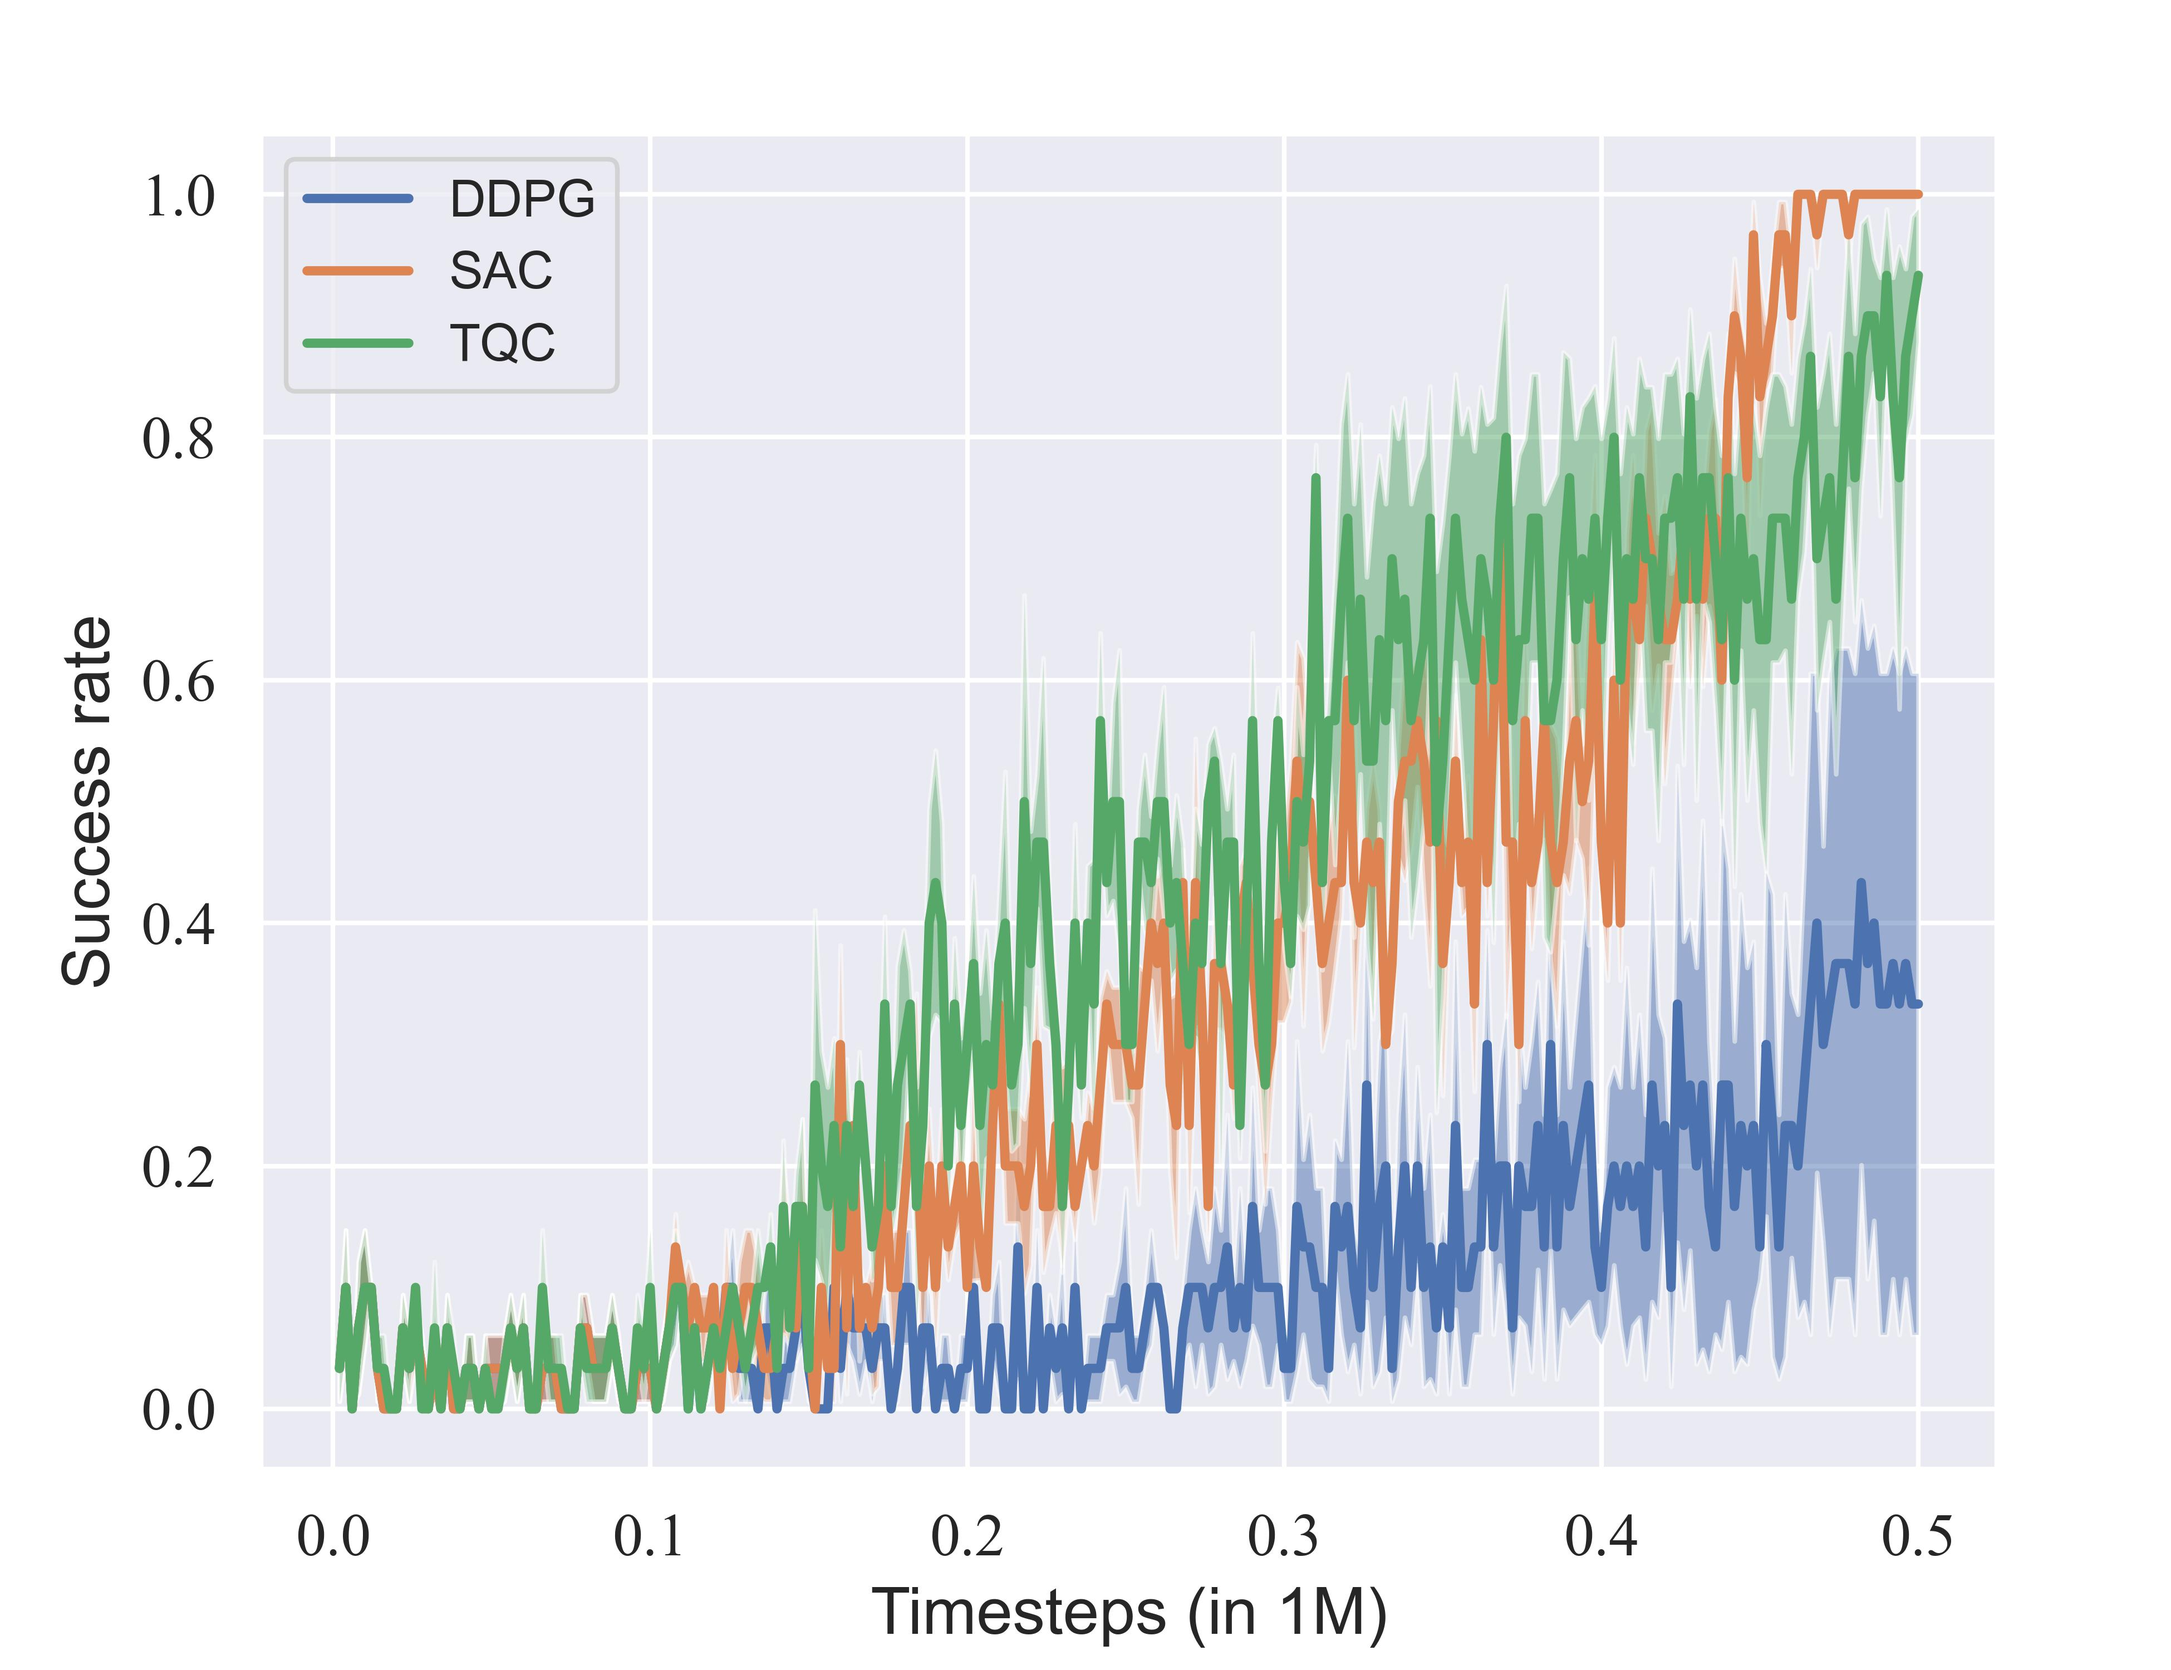
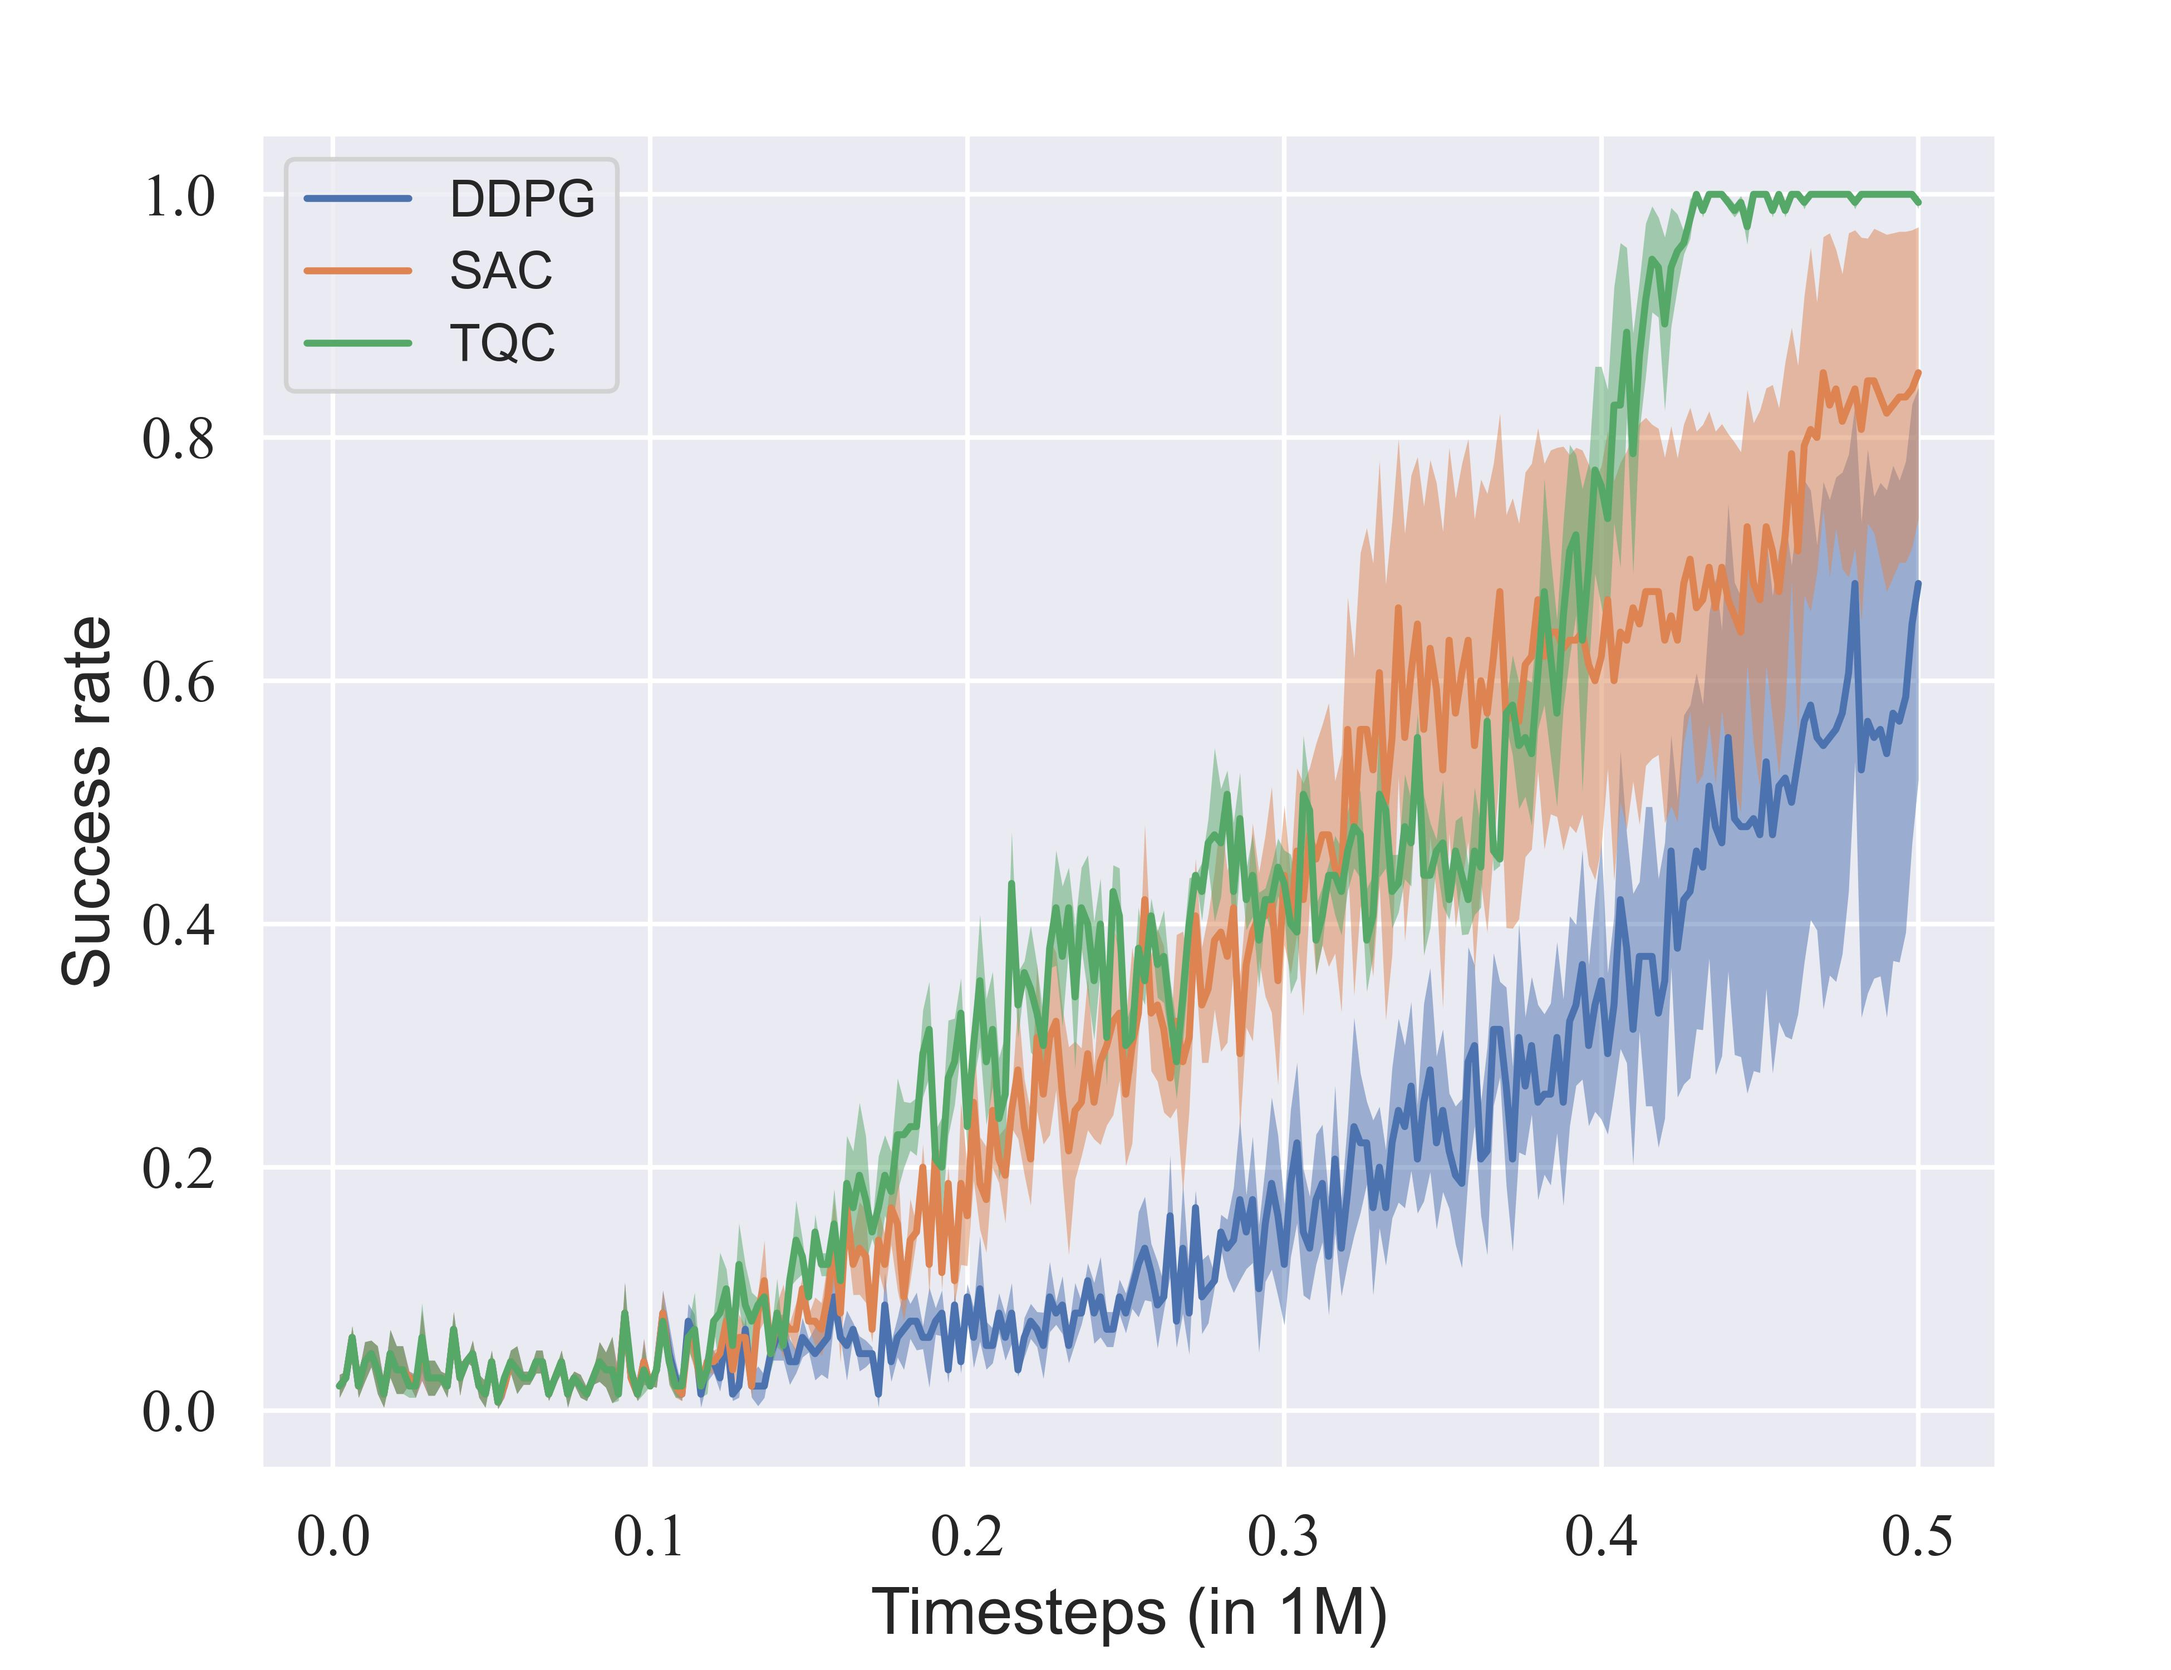
update evaluation results with more episodes

Changed region(s): [[0.1551, 0.093, 0.8997, 0.868]]

diff --git a/README.md b/README.md
@@ -8,7 +8,7 @@ There is still a lot of work to be done on this repo, so please feel free to rai
 <div align="center">
 
 `FrankaPushSparse-v0` | `FrankaSlideSparse-v0` | `FrankaPickAndPlaceSparse-v0`
-|:------------------------|:------------------------:|:------------------------:|
+|:------------------------:|:------------------------:|:------------------------:|
 <img src="./docs/push.gif" alt="" width="200"/> | <img src="./docs/slide.gif" alt="" width="200"/> | <img src="./docs/pnp.gif" alt="" width="200"/>
 </div>
 
